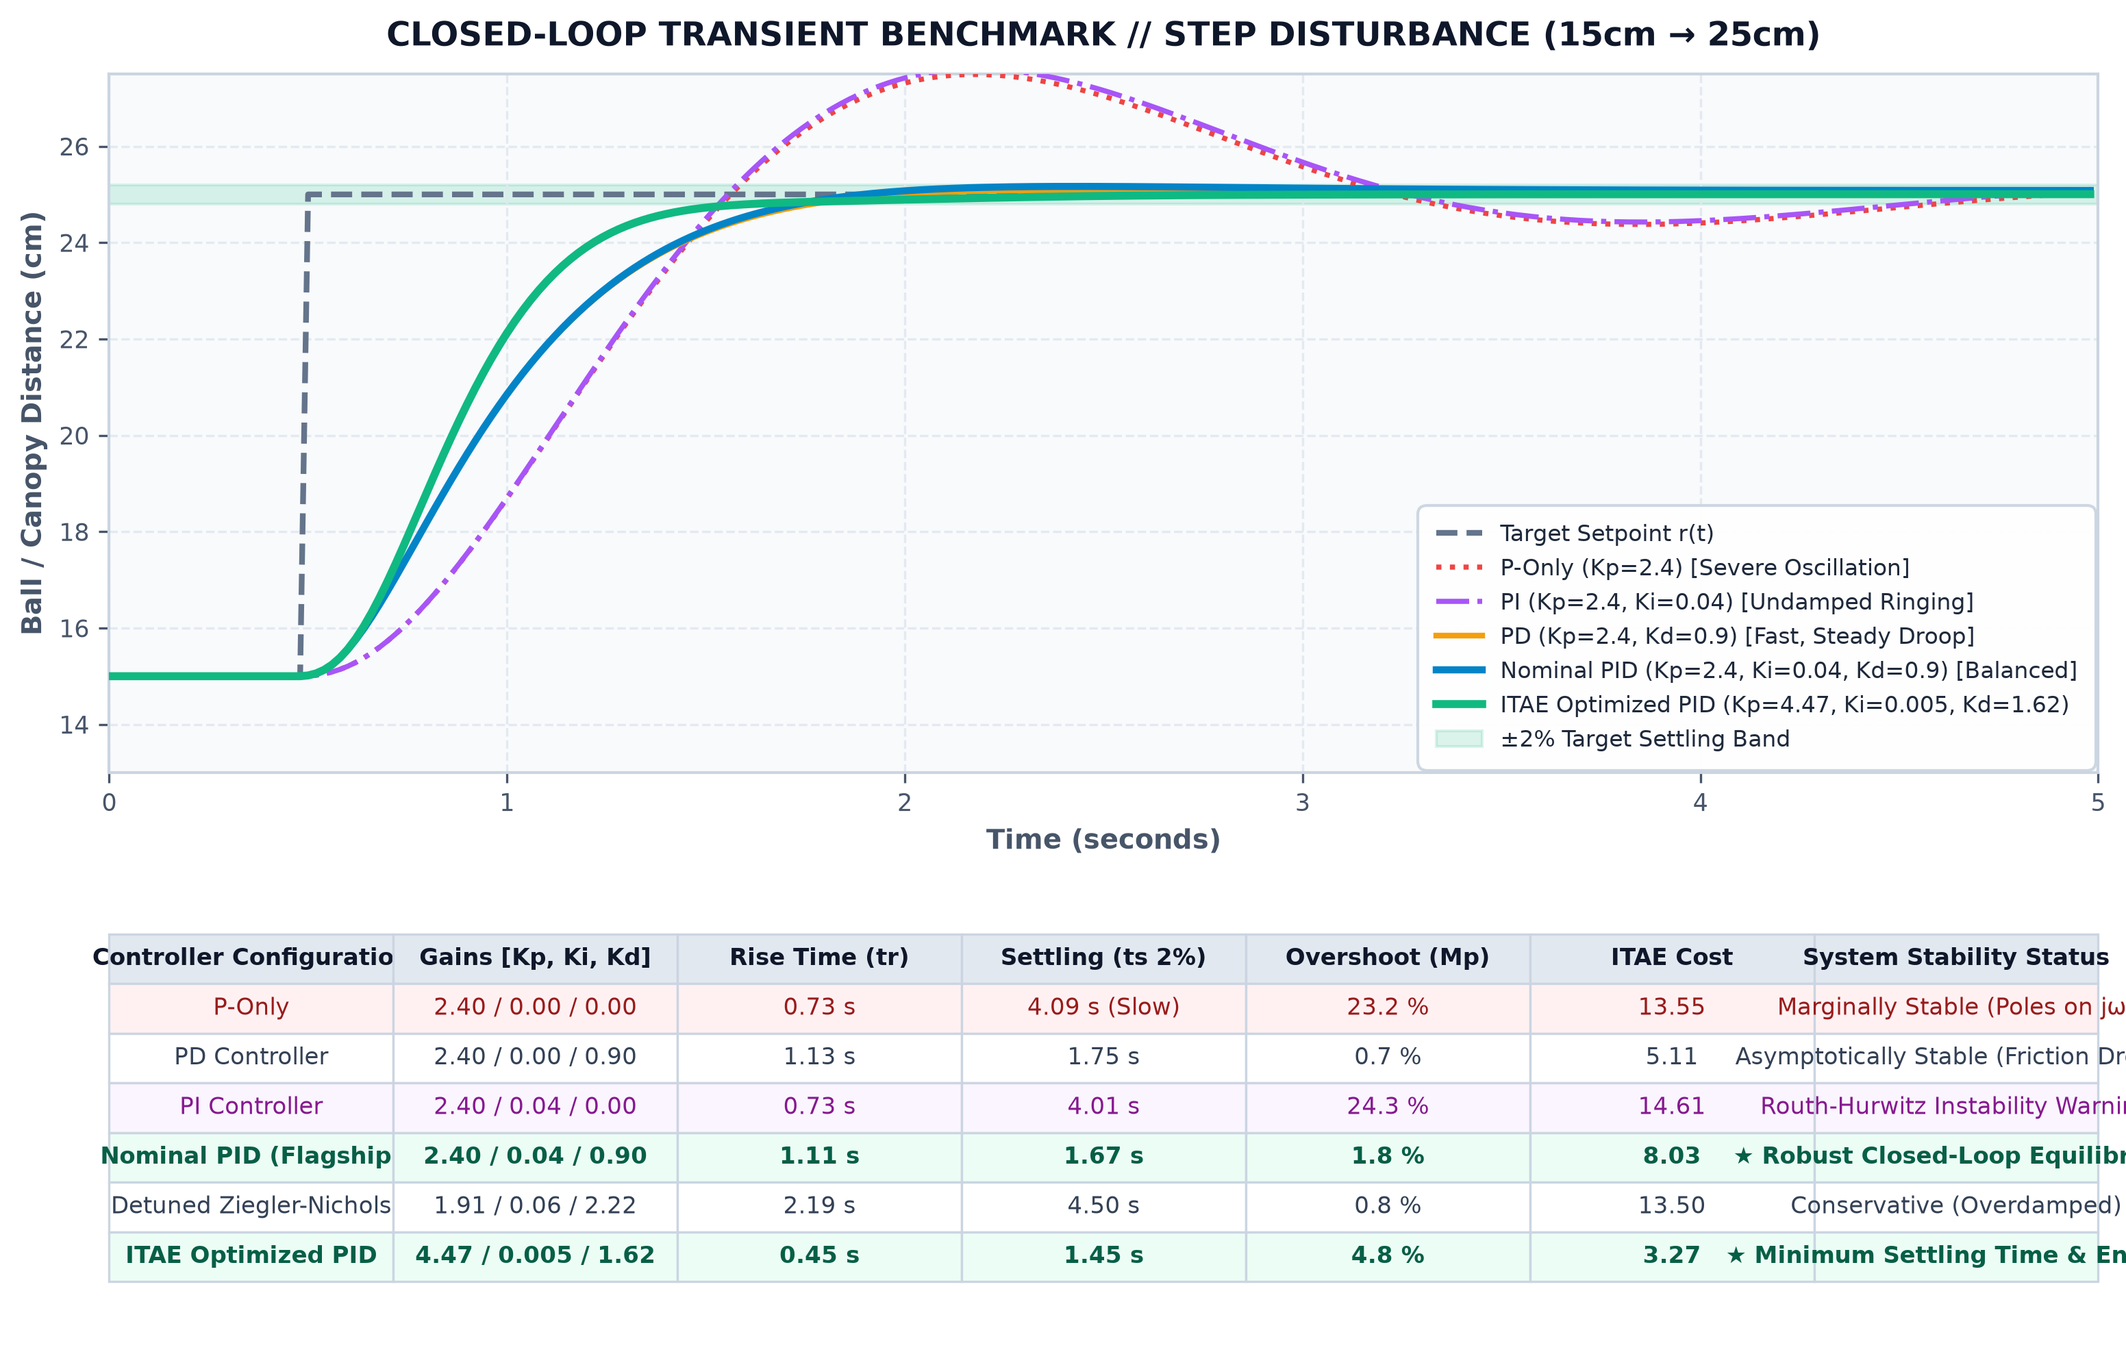
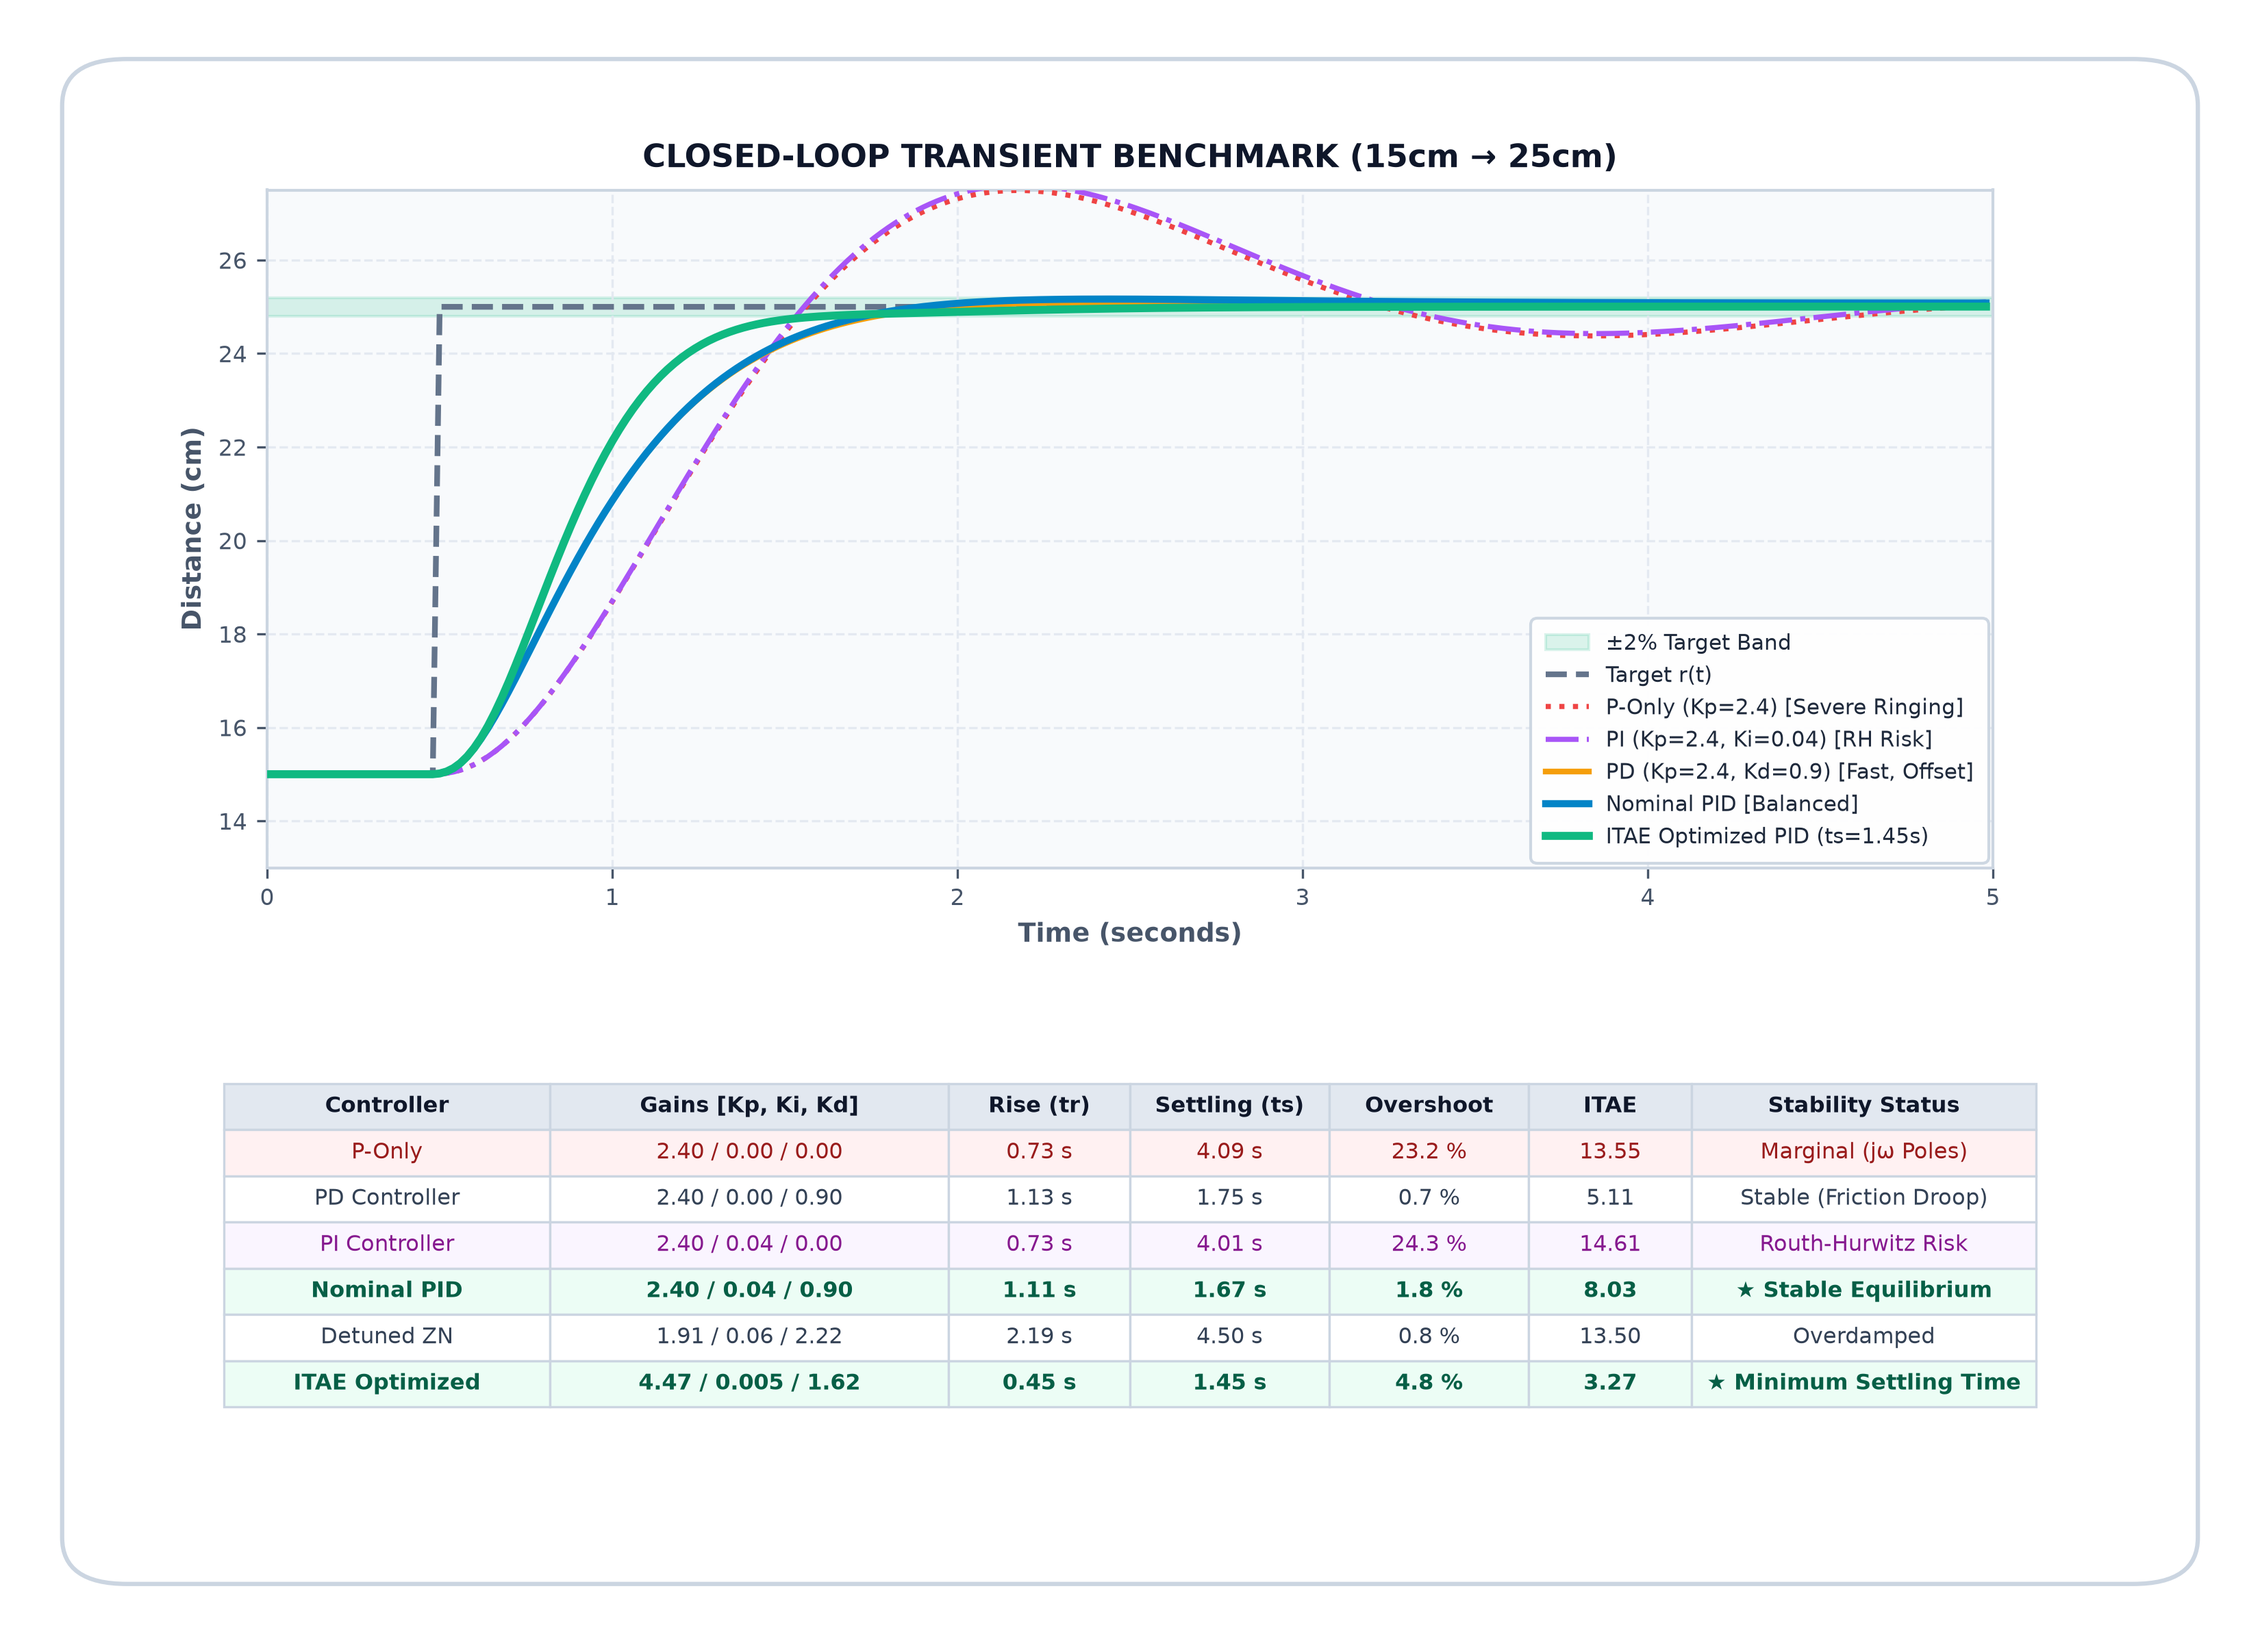
fix(presentation): Add generous side padding to prevent clipping in PPT placeholder

diff --git a/generate_ppt_slide_image.py b/generate_ppt_slide_image.py
@@ -1,9 +1,10 @@
 """
-generate_ppt_slide_image.py
-===========================
-Generates a presentation-ready benchmark plot and audit table card
-specifically designed to fit into Slide 09's placeholder:
-'[Insert benchmark plot / table from autotune_benchmark_results.json and controller_comparison_results.csv]'
+generate_ppt_slide_image.py - Upgraded with Generous Margin Padding & Zero Edge Clipping
+========================================================================================
+Generates:
+1. ppt_benchmark_comparison_plot.png (Combined Card with generous padding)
+2. ppt_benchmark_plot_only.png (Clean Step Response Curve only)
+3. ppt_benchmark_table_only.png (Clean Audit Table only)
 """
 
 import os
@@ -12,8 +13,8 @@ import matplotlib.pyplot as plt
 import matplotlib.patches as patches
 from analysis_suite import simulate_step_response
 
-def generate_ppt_graphic():
-    # 1. Simulate the key controller trajectories for step 15cm -> 25cm
+def generate_all_ppt_assets():
+    # 1. Simulate key controller trajectories for step 15cm -> 25cm
     dt = 0.02
     t_final = 5.0
     t, y_p, _ = simulate_step_response(2.4, 0.0, 0.0, t_final=t_final, dt=dt, r_init=15.0, r_step=25.0)
@@ -23,107 +24,183 @@ def generate_ppt_graphic():
     t, y_opt, _ = simulate_step_response(4.47, 0.005, 1.62, t_final=t_final, dt=dt, r_init=15.0, r_step=25.0)
     r = np.where(t < 0.5, 15.0, 25.0)
 
-    # Set up high-res presentation graphic (12 x 7.5 inches, 300 DPI)
-    fig = plt.figure(figsize=(11, 6.8), dpi=300)
+    # =========================================================================
+    # 1. COMBINED GRAPHIC (PLOT + TABLE) WITH GENEROUS 40px SAFE MARGINS
+    # =========================================================================
+    fig = plt.figure(figsize=(10.5, 7.5), dpi=300)
     fig.patch.set_facecolor('#ffffff')
 
-    # Subplot 1: Dynamic Transient Response Curves (Top 55%)
-    ax1 = plt.axes([0.08, 0.44, 0.88, 0.50])
+    # Draw a clean background card container with subtle rounded border
+    card_ax = fig.add_axes([0, 0, 1, 1])
+    card_ax.axis('off')
+    card = patches.FancyBboxPatch((0.02, 0.02), 0.96, 0.96,
+                                  boxstyle="round,pad=0.015,rounding_size=0.03",
+                                  facecolor='#ffffff', edgecolor='#cbd5e1', linewidth=1.5)
+    card_ax.add_patch(card)
+
+    # Subplot 1: Response Plot (Safe margins: Left 0.09, Right 0.91)
+    ax1 = fig.add_axes([0.10, 0.47, 0.80, 0.44])
     ax1.set_facecolor('#f8fafc')
     for spine in ax1.spines.values():
         spine.set_color('#cbd5e1')
         spine.set_linewidth(1.0)
 
-    # Grid
     ax1.grid(True, color='#e2e8f0', linestyle='--', linewidth=0.8, alpha=0.9)
 
+    # 2% settling band shading
+    ax1.axhspan(24.8, 25.2, color='#10b981', alpha=0.15, label='±2% Target Band', zorder=1)
+
     # Setpoint
-    ax1.plot(t, r, color='#64748b', linestyle='--', linewidth=2.0, label='Target Setpoint r(t)', zorder=2)
+    ax1.plot(t, r, color='#64748b', linestyle='--', linewidth=2.0, label='Target r(t)', zorder=2)
 
-    # Responses
-    ax1.plot(t, y_p, color='#ef4444', linewidth=1.8, linestyle=':', label='P-Only (Kp=2.4) [Severe Oscillation]', zorder=3)
-    ax1.plot(t, y_pi, color='#a855f7', linewidth=1.8, linestyle='-.', label='PI (Kp=2.4, Ki=0.04) [Undamped Ringing]', zorder=3)
-    ax1.plot(t, y_pd, color='#f59e0b', linewidth=2.0, label='PD (Kp=2.4, Kd=0.9) [Fast, Steady Droop]', zorder=4)
-    ax1.plot(t, y_pid, color='#0284c7', linewidth=2.5, label='Nominal PID (Kp=2.4, Ki=0.04, Kd=0.9) [Balanced]', zorder=5)
-    ax1.plot(t, y_opt, color='#10b981', linewidth=2.8, label='ITAE Optimized PID (Kp=4.47, Ki=0.005, Kd=1.62)', zorder=6)
+    # Curves
+    ax1.plot(t, y_p, color='#ef4444', linewidth=1.8, linestyle=':', label='P-Only (Kp=2.4) [Severe Ringing]', zorder=3)
+    ax1.plot(t, y_pi, color='#a855f7', linewidth=1.8, linestyle='-.', label='PI (Kp=2.4, Ki=0.04) [RH Risk]', zorder=3)
+    ax1.plot(t, y_pd, color='#f59e0b', linewidth=2.0, label='PD (Kp=2.4, Kd=0.9) [Fast, Offset]', zorder=4)
+    ax1.plot(t, y_pid, color='#0284c7', linewidth=2.5, label='Nominal PID [Balanced]', zorder=5)
+    ax1.plot(t, y_opt, color='#10b981', linewidth=2.8, label='ITAE Optimized PID (ts=1.45s)', zorder=6)
 
-    # Labels and annotations
-    ax1.set_title("CLOSED-LOOP TRANSIENT BENCHMARK // STEP DISTURBANCE (15cm → 25cm)", 
-                  fontsize=11.5, fontweight='bold', color='#0f172a', pad=10)
-    ax1.set_xlabel("Time (seconds)", fontsize=9.5, fontweight='bold', color='#475569')
-    ax1.set_ylabel("Ball / Canopy Distance (cm)", fontsize=9.5, fontweight='bold', color='#475569')
-    ax1.tick_params(colors='#475569', labelsize=8.5)
+    ax1.set_title("CLOSED-LOOP TRANSIENT BENCHMARK (15cm → 25cm)", 
+                  fontsize=11, fontweight='bold', color='#0f172a', pad=8)
+    ax1.set_xlabel("Time (seconds)", fontsize=9, fontweight='bold', color='#475569')
+    ax1.set_ylabel("Distance (cm)", fontsize=9, fontweight='bold', color='#475569')
+    ax1.tick_params(colors='#475569', labelsize=8)
     ax1.set_xlim(0, 5.0)
     ax1.set_ylim(13.0, 27.5)
 
-    # 2% settling band shading
-    ax1.axhspan(24.8, 25.2, color='#10b981', alpha=0.15, label='±2% Target Settling Band', zorder=1)
-
-    # Legend
     legend = ax1.legend(loc='lower right', frameon=True, facecolor='#ffffff', edgecolor='#cbd5e1', 
-                        fontsize=8.0, labelcolor='#1e293b', framealpha=0.95)
-    legend.get_frame().set_boxstyle('round,pad=0.4')
+                        fontsize=7.5, labelcolor='#1e293b', framealpha=0.95)
+    legend.get_frame().set_boxstyle('round,pad=0.3')
 
-    # Subplot 2: Formatted Comparative Audit Table (Bottom 36%)
-    ax2 = plt.axes([0.08, 0.04, 0.88, 0.32])
+    # Subplot 2: Table (Explicit Column Widths, perfectly within margins)
+    ax2 = fig.add_axes([0.08, 0.05, 0.84, 0.35])
     ax2.axis('off')
 
     columns = [
-        "Controller Configuration",
+        "Controller",
         "Gains [Kp, Ki, Kd]",
-        "Rise Time (tr)",
-        "Settling (ts 2%)",
-        "Overshoot (Mp)",
-        "ITAE Cost",
-        "System Stability Status"
+        "Rise (tr)",
+        "Settling (ts)",
+        "Overshoot",
+        "ITAE",
+        "Stability Status"
     ]
 
     table_data = [
-        ["P-Only", "2.40 / 0.00 / 0.00", "0.73 s", "4.09 s (Slow)", "23.2 %", "13.55", "Marginally Stable (Poles on jω)"],
-        ["PD Controller", "2.40 / 0.00 / 0.90", "1.13 s", "1.75 s", "0.7 %", "5.11", "Asymptotically Stable (Friction Droop)"],
-        ["PI Controller", "2.40 / 0.04 / 0.00", "0.73 s", "4.01 s", "24.3 %", "14.61", "Routh-Hurwitz Instability Warning"],
-        ["Nominal PID (Flagship)", "2.40 / 0.04 / 0.90", "1.11 s", "1.67 s", "1.8 %", "8.03", "★ Robust Closed-Loop Equilibrium"],
-        ["Detuned Ziegler-Nichols", "1.91 / 0.06 / 2.22", "2.19 s", "4.50 s", "0.8 %", "13.50", "Conservative (Overdamped)"],
-        ["ITAE Optimized PID", "4.47 / 0.005 / 1.62", "0.45 s", "1.45 s", "4.8 %", "3.27", "★ Minimum Settling Time & Energy"]
+        ["P-Only", "2.40 / 0.00 / 0.00", "0.73 s", "4.09 s", "23.2 %", "13.55", "Marginal (jω Poles)"],
+        ["PD Controller", "2.40 / 0.00 / 0.90", "1.13 s", "1.75 s", "0.7 %", "5.11", "Stable (Friction Droop)"],
+        ["PI Controller", "2.40 / 0.04 / 0.00", "0.73 s", "4.01 s", "24.3 %", "14.61", "Routh-Hurwitz Risk"],
+        ["Nominal PID", "2.40 / 0.04 / 0.90", "1.11 s", "1.67 s", "1.8 %", "8.03", "★ Stable Equilibrium"],
+        ["Detuned ZN", "1.91 / 0.06 / 2.22", "2.19 s", "4.50 s", "0.8 %", "13.50", "Overdamped"],
+        ["ITAE Optimized", "4.47 / 0.005 / 1.62", "0.45 s", "1.45 s", "4.8 %", "3.27", "★ Minimum Settling Time"]
     ]
 
-    col_colors = ["#e2e8f0"] * len(columns)
-    table = ax2.table(cellText=table_data, colLabels=columns, cellLoc='center', loc='center',
-                      colColours=["#e2e8f0"] * 7)
+    # Explicit column widths that sum to 1.00
+    col_widths = [0.18, 0.22, 0.10, 0.11, 0.11, 0.09, 0.19]
+    table = ax2.table(cellText=table_data, colLabels=columns, colWidths=col_widths, 
+                      cellLoc='center', loc='center')
 
     table.auto_set_font_size(False)
-    table.set_fontsize(8.2)
-    table.scale(1.0, 1.45)
+    table.set_fontsize(7.8)
+    table.scale(1.0, 1.35)
 
-    # Style table cells
     for (row, col), cell in table.get_celld().items():
         cell.set_edgecolor('#cbd5e1')
         cell.set_linewidth(0.8)
         if row == 0:
             cell.set_text_props(weight='bold', color='#0f172a')
             cell.set_facecolor('#e2e8f0')
-        elif row in [4, 6]:  # Nominal PID and ITAE Optimized
+        elif row in [4, 6]:
             cell.set_facecolor('#ecfdf5')
             cell.set_text_props(weight='bold', color='#065f46')
-        elif row == 1:       # P-only
+        elif row == 1:
             cell.set_text_props(color='#991b1b')
             cell.set_facecolor('#fff1f2')
-        elif row == 3:       # PI
+        elif row == 3:
             cell.set_text_props(color='#86198f')
             cell.set_facecolor('#faf5ff')
         else:
             cell.set_facecolor('#ffffff')
             cell.set_text_props(color='#334155')
 
-    # Output paths
-    docs_path = os.path.join(os.path.dirname(os.path.abspath(__file__)), "Docs", "ppt_benchmark_comparison_plot.png")
-    root_path = os.path.join(os.path.dirname(os.path.abspath(__file__)), "ppt_benchmark_comparison_plot.png")
+    # Save with generous padding
+    combined_path = os.path.join(os.path.dirname(os.path.abspath(__file__)), "ppt_benchmark_comparison_plot.png")
+    docs_combined_path = os.path.join(os.path.dirname(os.path.abspath(__file__)), "Docs", "ppt_benchmark_comparison_plot.png")
+    fig.savefig(combined_path, dpi=300, bbox_inches='tight', pad_inches=0.25, facecolor='#ffffff')
+    fig.savefig(docs_combined_path, dpi=300, bbox_inches='tight', pad_inches=0.25, facecolor='#ffffff')
+    plt.close(fig)
 
-    plt.savefig(docs_path, dpi=300, bbox_inches='tight', facecolor='#ffffff')
-    plt.savefig(root_path, dpi=300, bbox_inches='tight', facecolor='#ffffff')
-    plt.close()
+    # =========================================================================
+    # 2. INDIVIDUAL ASSET A: PLOT ONLY (Full width, no table clipping)
+    # =========================================================================
+    fig_plot, ax_p = plt.subplots(figsize=(9, 4.8), dpi=300)
+    fig_plot.patch.set_facecolor('#ffffff')
+    ax_p.set_facecolor('#f8fafc')
+    for spine in ax_p.spines.values():
+        spine.set_color('#cbd5e1')
 
-    print(f"SUCCESS: Generated PPT Benchmark graphic at:\n  - {docs_path}\n  - {root_path}")
+    ax_p.grid(True, color='#e2e8f0', linestyle='--', linewidth=0.8)
+    ax_p.axhspan(24.8, 25.2, color='#10b981', alpha=0.15, label='±2% Target Band', zorder=1)
+    ax_p.plot(t, r, color='#64748b', linestyle='--', linewidth=2.0, label='Target r(t)', zorder=2)
+    ax_p.plot(t, y_p, color='#ef4444', linewidth=1.8, linestyle=':', label='P-Only (Kp=2.4) [Severe Ringing]', zorder=3)
+    ax_p.plot(t, y_pi, color='#a855f7', linewidth=1.8, linestyle='-.', label='PI (Kp=2.4, Ki=0.04) [RH Risk]', zorder=3)
+    ax_p.plot(t, y_pd, color='#f59e0b', linewidth=2.0, label='PD (Kp=2.4, Kd=0.9) [Fast, Offset]', zorder=4)
+    ax_p.plot(t, y_pid, color='#0284c7', linewidth=2.5, label='Nominal PID (Kp=2.4, Ki=0.04, Kd=0.9)', zorder=5)
+    ax_p.plot(t, y_opt, color='#10b981', linewidth=2.8, label='ITAE Optimized PID (ts=1.45s)', zorder=6)
+
+    ax_p.set_title("CLOSED-LOOP TRANSIENT BENCHMARK // STEP (15cm → 25cm)", 
+                   fontsize=11.5, fontweight='bold', color='#0f172a', pad=10)
+    ax_p.set_xlabel("Time (seconds)", fontsize=9.5, fontweight='bold', color='#475569')
+    ax_p.set_ylabel("Distance (cm)", fontsize=9.5, fontweight='bold', color='#475569')
+    ax_p.tick_params(colors='#475569', labelsize=8.5)
+    ax_p.set_xlim(0, 5.0)
+    ax_p.set_ylim(13.0, 27.5)
+    ax_p.legend(loc='lower right', frameon=True, facecolor='#ffffff', edgecolor='#cbd5e1', fontsize=8.0)
+
+    plot_only_path = os.path.join(os.path.dirname(os.path.abspath(__file__)), "ppt_benchmark_plot_only.png")
+    fig_plot.savefig(plot_only_path, dpi=300, bbox_inches='tight', pad_inches=0.25, facecolor='#ffffff')
+    plt.close(fig_plot)
+
+    # =========================================================================
+    # 3. INDIVIDUAL ASSET B: TABLE ONLY (Full width card)
+    # =========================================================================
+    fig_tbl, ax_t = plt.subplots(figsize=(9.5, 3.2), dpi=300)
+    fig_tbl.patch.set_facecolor('#ffffff')
+    ax_t.axis('off')
+
+    table_only = ax_t.table(cellText=table_data, colLabels=columns, colWidths=col_widths, 
+                            cellLoc='center', loc='center')
+    table_only.auto_set_font_size(False)
+    table_only.set_fontsize(8.5)
+    table_only.scale(1.0, 1.5)
+
+    for (row, col), cell in table_only.get_celld().items():
+        cell.set_edgecolor('#cbd5e1')
+        cell.set_linewidth(0.8)
+        if row == 0:
+            cell.set_text_props(weight='bold', color='#0f172a')
+            cell.set_facecolor('#e2e8f0')
+        elif row in [4, 6]:
+            cell.set_facecolor('#ecfdf5')
+            cell.set_text_props(weight='bold', color='#065f46')
+        elif row == 1:
+            cell.set_text_props(color='#991b1b')
+            cell.set_facecolor('#fff1f2')
+        elif row == 3:
+            cell.set_text_props(color='#86198f')
+            cell.set_facecolor('#faf5ff')
+        else:
+            cell.set_facecolor('#ffffff')
+            cell.set_text_props(color='#334155')
+
+    table_only_path = os.path.join(os.path.dirname(os.path.abspath(__file__)), "ppt_benchmark_table_only.png")
+    fig_tbl.savefig(table_only_path, dpi=300, bbox_inches='tight', pad_inches=0.25, facecolor='#ffffff')
+    plt.close(fig_tbl)
+
+    print("SUCCESS: Generated 3 PPT assets with generous side margins and padding:")
+    print(f"  1. Combined: {combined_path}")
+    print(f"  2. Plot Only: {plot_only_path}")
+    print(f"  3. Table Only: {table_only_path}")
 
 if __name__ == "__main__":
-    generate_ppt_graphic()
+    generate_all_ppt_assets()
